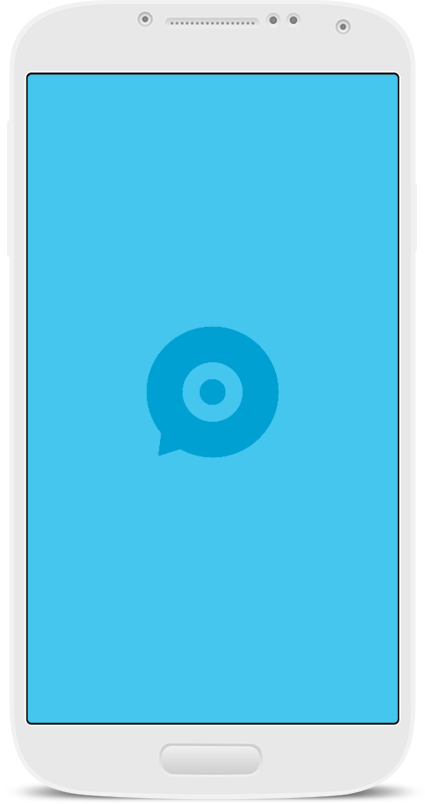
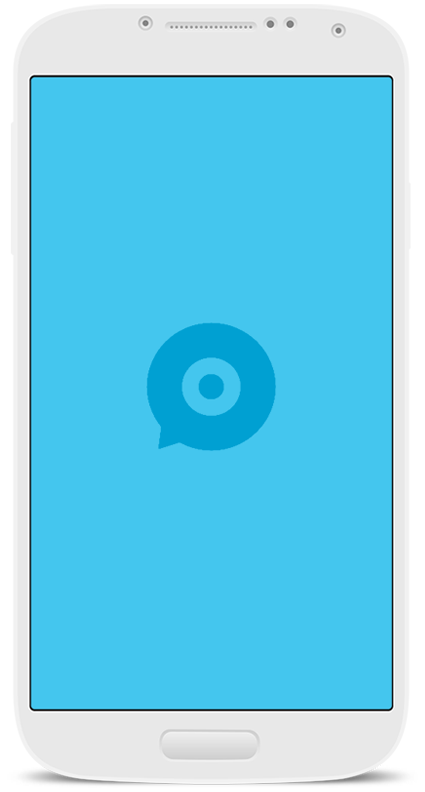
repair within tz

diff --git a/css/swod.css b/css/swod.css
@@ -57,8 +57,6 @@ body {
   z-index: 15;
 }
 
-
-
 #gooPlay {
   background-image: url(img/googlePlay.png);
 }
@@ -75,31 +73,38 @@ body {
   background-image: url(img/logo_last.png);
 }
 
-/*
-#twoPhone {
-  display: block;
+
+#phoneMain {
+  width: 212px;
+  height: 395px;
+}
+
+#phoneSub {
+  top: 21px;
+  width: 190px;
+  height: 354px;
+}
+
+.phones {
+  position: relative;
+  margin: 0 auto;
+  width: 300px;
+  height: 450px;
+}
+
+.phoneIos {
+  background-image: url(img/ios_p1.png);
+  background-size: 100%;
   position: absolute;
-  top: 4%;
-  height: 96%;
-  width: 96%;
-  left: 1%;
-  background-image: url(img/p1_ios.png);
-  background-size: cover;
-  background-position: center;
-  z-index: 16;
+  left: 0;
 }
 
-#twoPhone span {
-  font-size: 1em;
-  margin-right: 1em;
-  color: #8fe4ff;
-  cursor: pointer;
+.phoneAnd {
+  background-image: url(img/android_p1.png);
+  background-size: 100%;
+  position: absolute;
+  right: 0;
 }
-
-#twoPhone span:hover,
-#twoPhone span.active, {
-  color: #fff;
-}*/
 
 #mockup {
   background-image: url(img/mockup.png);
@@ -174,16 +179,6 @@ body {
   display: block;
   bottom: -35px;
 }
-@media all and (-webkit-min-device-pixel-ratio: 1.5) {
-  #arrow {
-    width: 142px;
-    height: 66px;
-    margin-left: -71px;
-  }
-  #arrow.hide {
-    bottom: -66px;
-  }
-}
 
 #labels {
   padding-top: 1em;
@@ -234,12 +229,10 @@ body {
 }
 
 #more input[type="text"] {
+  background: #eee;
   font-size: 1em;
-  /*height: 30px;*/
   margin: 0;
   border-radius: 20px 0 0 20px;
-  padding: 5px 20px;
-  background: #eee;
   padding: 0.2em 1em;
 }
 
@@ -250,16 +243,13 @@ body {
 }
 
 #more input[type="button"] {
-  /*height: 30px;*/
-  margin: 0;
+  background: #00a0d2;
   color: #fff;
   font-size: 1em;
-  /*padding: 1px 20px;*/
+  margin: 0;
   padding: 0.2em 1em;
   border-radius: 0 20px 20px 0;
   border: 2px solid #00a0d2;
-  /*height: 44px;*/
-  background: #00a0d2;
   cursor: pointer;
 }
 #more input[type="button"]:hover {
@@ -286,20 +276,16 @@ body {
 
 .container-left {
   position: absolute;
-  width: 52%;
+  width: 48%;
   height: 100%;
   left: 0;
-}
-
-#twoPhone .container-left {
-  width: 60%;
-  height: 90%;
 }
 
 .bot {
   position: absolute;
   bottom: 0;
 }
+
 .bot.center {
   width: 100%;
 }
@@ -318,15 +304,6 @@ body {
   height: 25%;
   list-style: none;
   font-size: 1.4em;
-}
-
-p.text {
-  font-size: 0.8em;
-  margin-bottom: 2.2em;
-}
-
-p.lead {
-  font-size: 1.8em;
 }
 
 .container-mid {
@@ -353,6 +330,15 @@ p.lead {
 
 .center img {
 margin-top: 4em;
+}
+
+p.text {
+  font-size: 0.8em;
+  margin-bottom: 2.2em;
+}
+
+p.lead {
+  font-size: 1.8em;
 }
 
 span.stores {
@@ -382,7 +368,8 @@ span.link {
   cursor: pointer;
 }
 
-span.link:hover {
+span.link:hover,
+span.link.active {
   color: #fff;
 }
 
@@ -390,8 +377,6 @@ span.link i {
   font-size: 110%;
   margin-right: 0.2em;
 }
-
-
 
 /* retina fix*/
 @media all and (-webkit-min-device-pixel-ratio: 1.5) {
@@ -405,6 +390,17 @@ span.link i {
 }
 
 @media all and (-webkit-min-device-pixel-ratio: 1.5) {
+  #arrow {
+    width: 142px;
+    height: 66px;
+    margin-left: -71px;
+  }
+  #arrow.hide {
+    bottom: -66px;
+  }
+}
+
+@media all and (-webkit-min-device-pixel-ratio: 1.5) {
   #appStore   { background-image: url(img/appStore@2x.png);   }
   #gooPlay    { background-image: url(img/googlePlay@2x.png); }
   #logoFirst  { background-image: url(img/logo@2x.png);       }
@@ -412,4 +408,25 @@ span.link i {
 
   span.stores     { width: 292px;   height: 94px;   }
   span.logoCut  { width: 450px;   height: 132px;  }
+
+  #phoneMain { width: 425px; height: 792px; }
+  #phoneSub { top: 42px; width: 380px; height: 708px; }
+
+  #phoneMain {
+    width: 425px;
+    height: 792px;
+  }
+
+  #phoneSub {
+    top: 42px;
+    width: 380px;
+    height: 708px;
+  }
+
+  .phones {
+    position: relative;
+    margin: 3em auto;
+    width: 600px;
+    height: 800px;
+  }
 }

diff --git a/index.html b/index.html
@@ -26,13 +26,13 @@
   <div class="container">
 
     <div class="container-left">
-        <div class="center">
-          <span id="phoneIos"></span>
-          <span id="phoneAnd"></span>
+        <div class="phones">
+          <span id="phoneSub" class="phoneAnd"></span>
+          <span id="phoneMain" class="phoneIos"></span>
         </div>
-        <div class="center bot">
-          <span class="link active"><i class="fa fa-apple"></i> Для iOS</span>
-          <span class="link"><i class="fa fa-android"></i> Для Android</span>
+        <div class="center">
+          <span class="link active" id="toIos"><i class="fa fa-apple"></i> Для iOS</span>
+          <span class="link" id="toAnd"><i class="fa fa-android"></i> Для Android</span>
         </div>
     </div>
 

diff --git a/js/main.js b/js/main.js
@@ -236,4 +236,24 @@ onEvent(unwatch, 'click', function () {
   arrow.show();
   document.body.style.overflow = 'visible';
 });
+
+var toAnd = document.getElementById('toAnd'),
+    toIos = document.getElementById('toIos'),
+    phoneMain = document.getElementById('phoneMain'),
+    phoneSub = document.getElementById('phoneSub');
+
+onEvent(toAnd, 'click', function () {
+  c.add(toAnd, 'active');
+  c.remove(toIos, 'active');
+  phoneMain.className = 'phoneAnd';
+  phoneSub.className = 'phoneIos';
+});
+
+onEvent(toIos, 'click', function () {
+  c.remove(toAnd, 'active');
+  c.add(toIos, 'active');
+  phoneMain.className = 'phoneIos';
+  phoneSub.className = 'phoneAnd';
+});
+
 } )(window);

diff --git a/README.md b/README.md
@@ -1,0 +1,5 @@
+#SWOD - Social Workout of Day
+
+Just vanilla-js, background-size, some type scaling
+
+http://kriku.github.io/swod/
